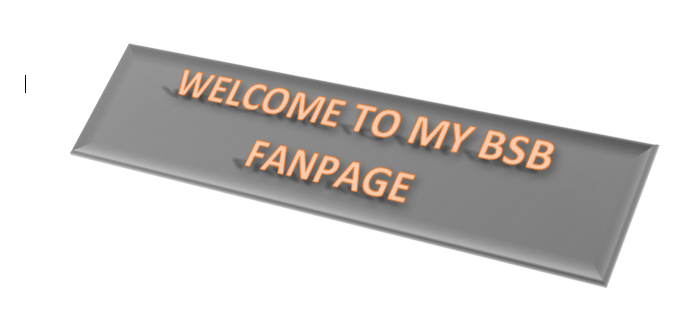
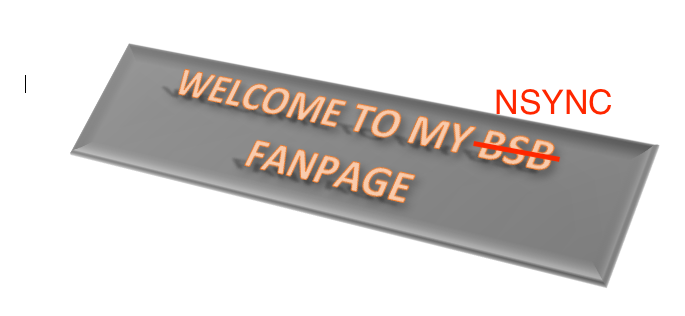
fix: it's actually NSYNC

Changed region(s): [[0.7051, 0.2848, 0.8891, 0.3703], [0.6745, 0.4272, 0.8277, 0.5127]]

diff --git a/home.html b/home.html
@@ -1,7 +1,7 @@
 <!DOCTYPE html>
 <html>
     <title>!@#$!@@@@@@@ BACKSTREET BOYZ @@@@@@!%#@!@</title>
-<body background = "bookcover.jpg">
+<body background = "No_Strings_Attached.png">
 
     <div align="center">
         <audio src="./everybody.mp3" autoplay="true" controls preload="auto" autobuffer></audio>
